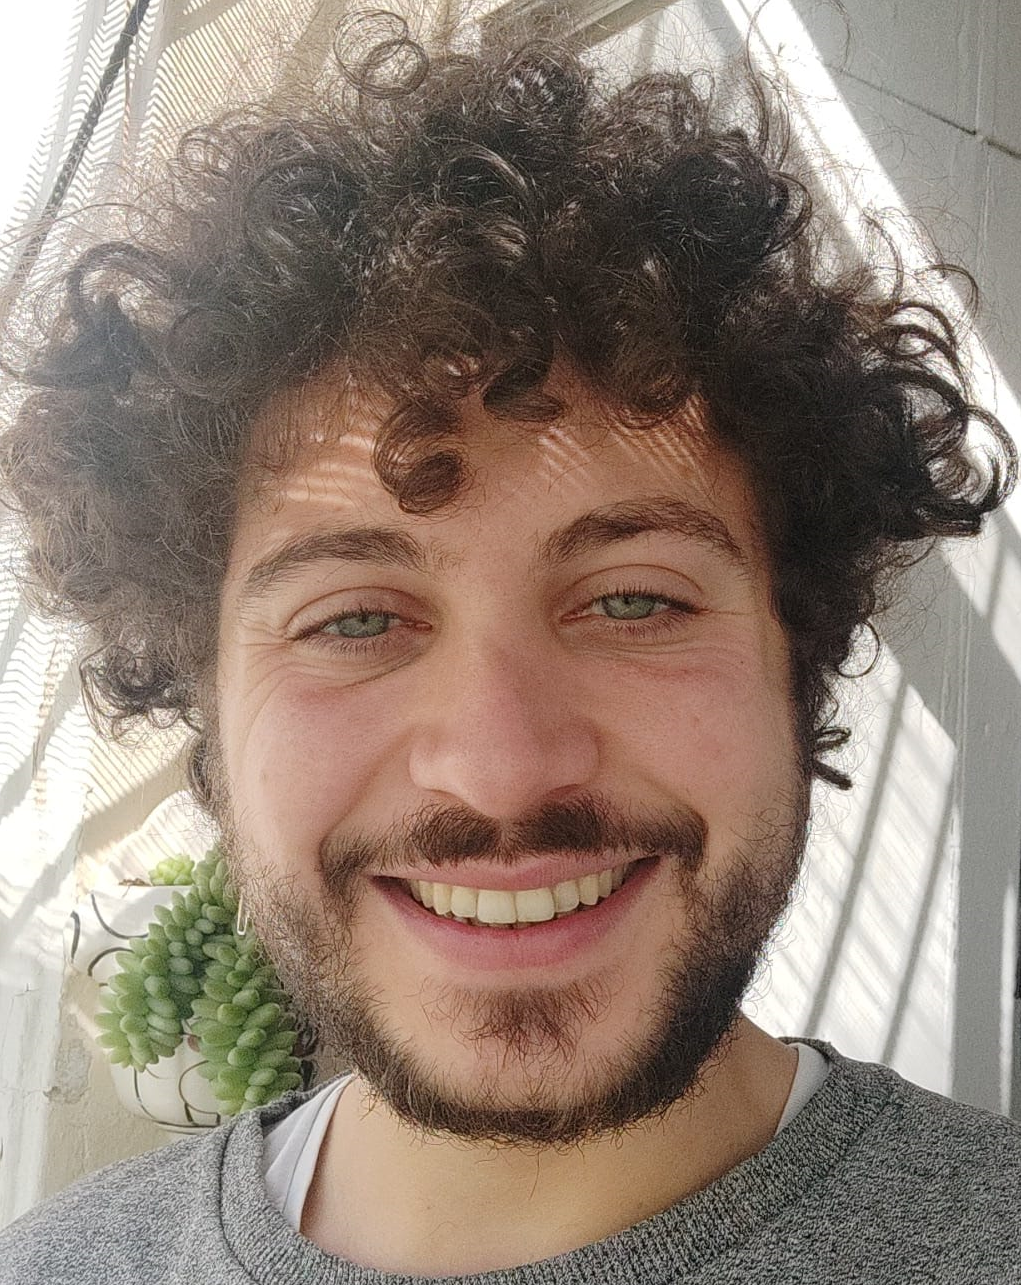
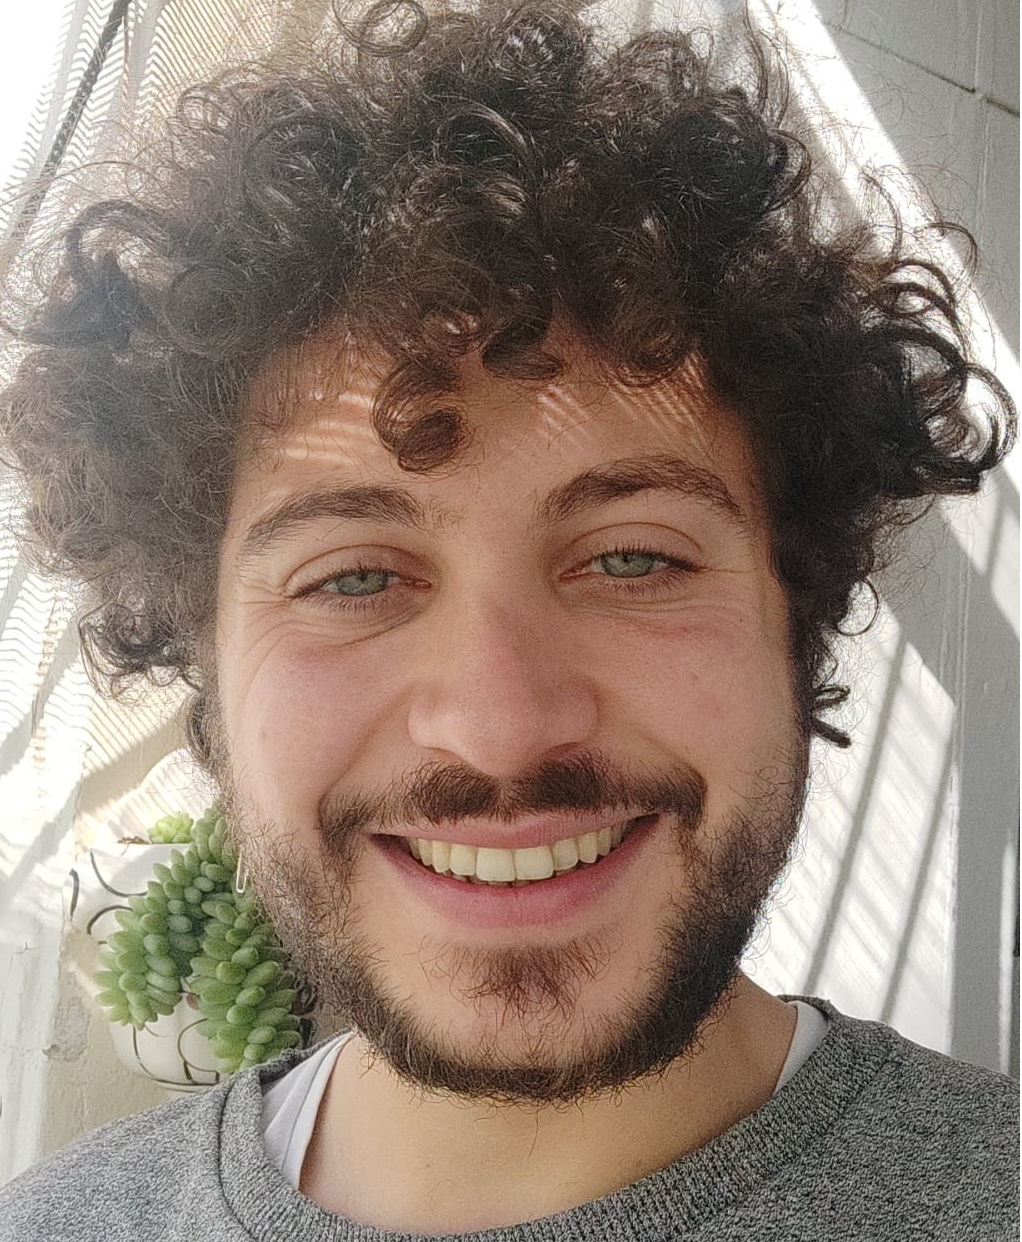
removing unnecessary docs, updating navigation.yml, modifying biopic and addig about_me.md and research.md

diff --git a/_pages/about.md b/_pages/about.md
@@ -1,7 +1,7 @@
 ---
 permalink: /
-title: "About me"
-excerpt: "About me"
+title: ""
+excerpt: ""
 author_profile: true
 redirect_from: 
   - /about/
